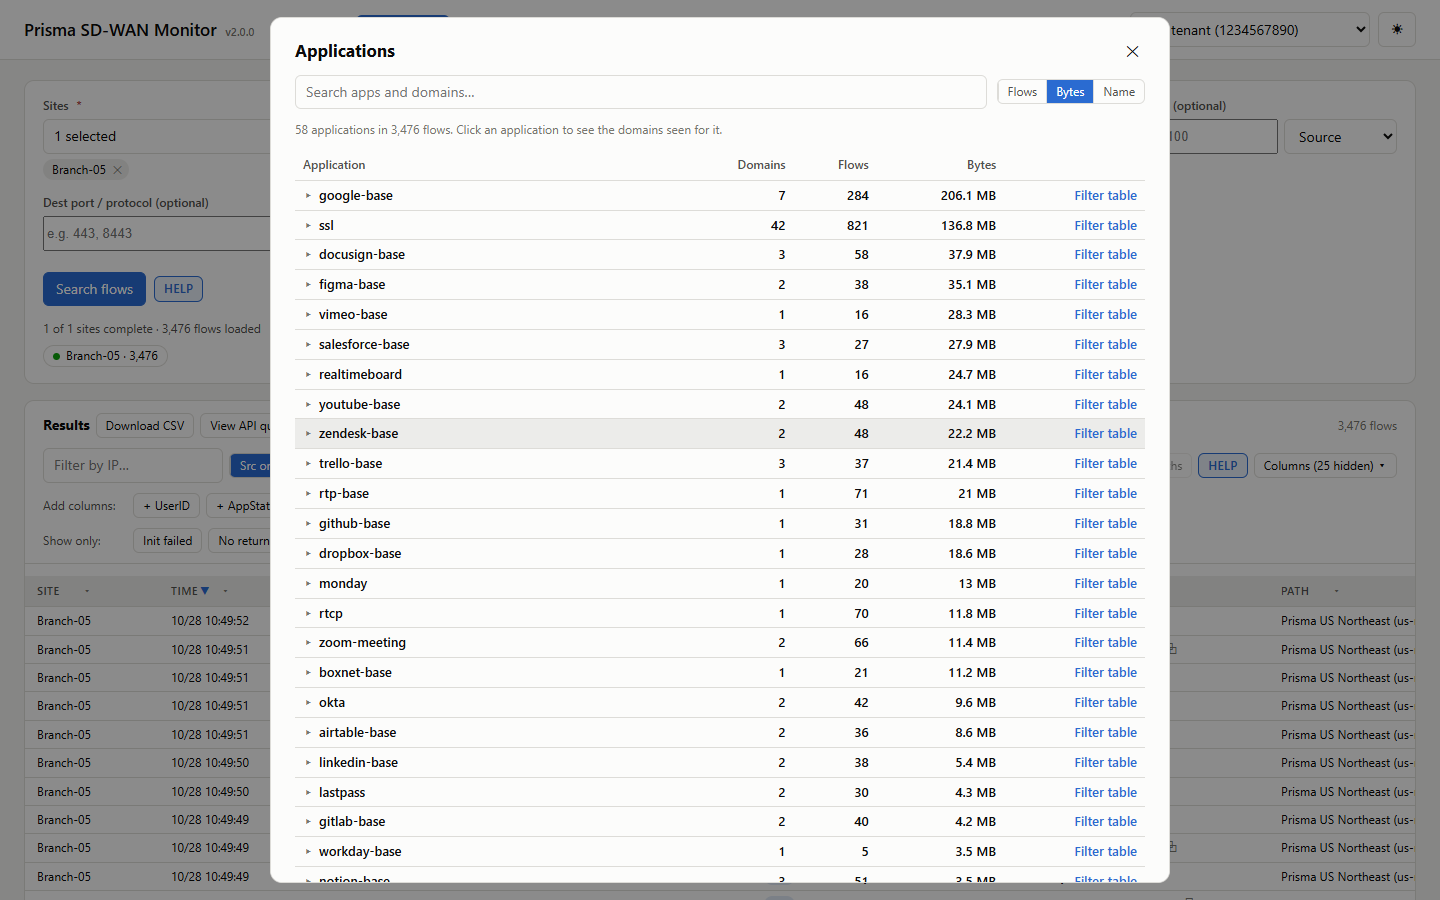
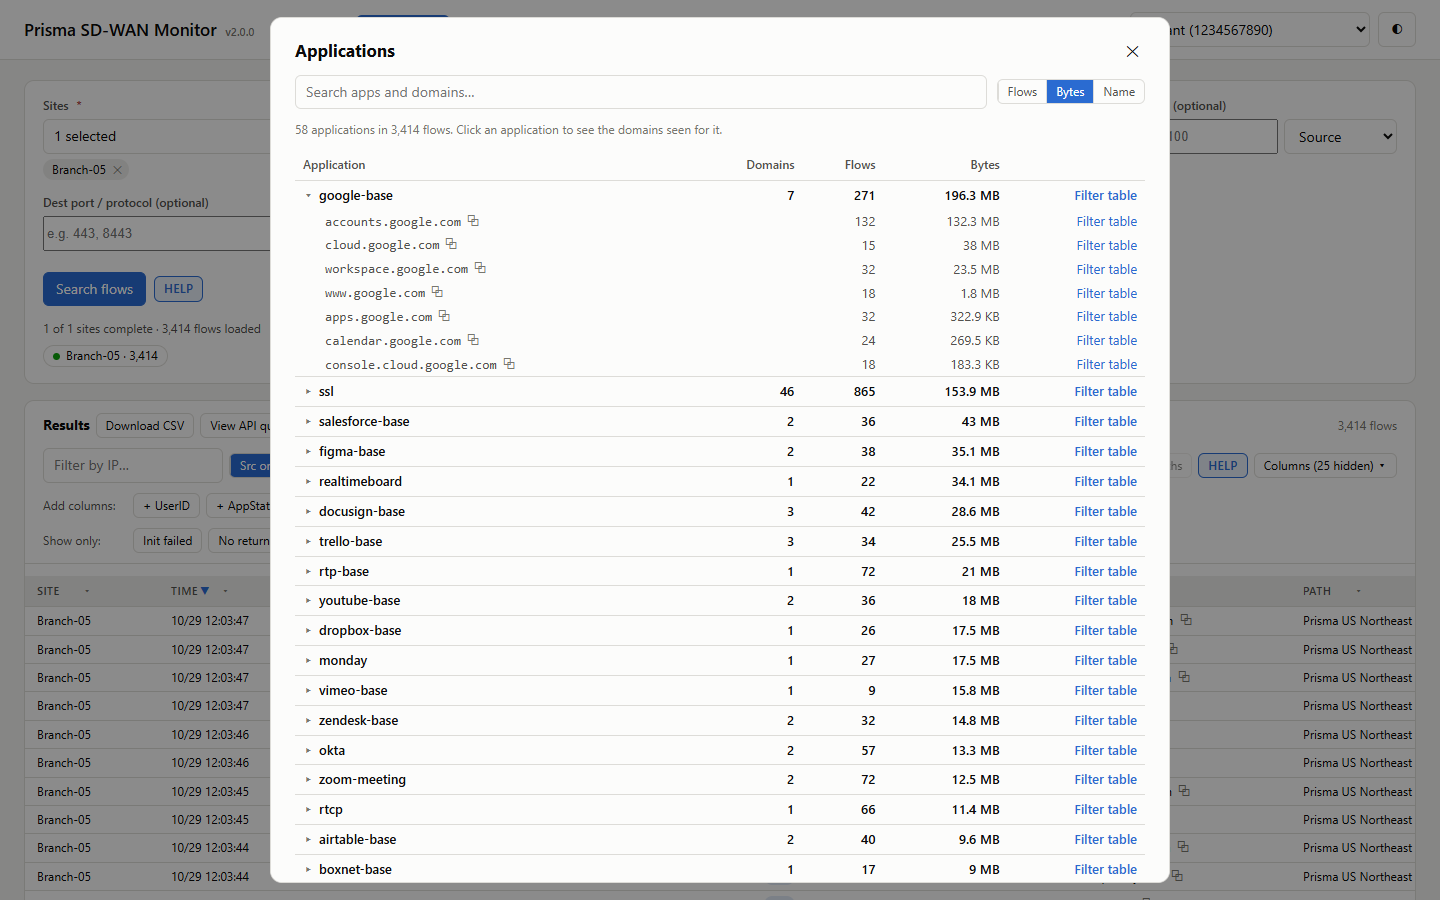
Document the Flow Search fields and show an expanded app in the Apps screenshot
List the search filters, the column search/filter and sorting, the columns by
their Add columns button, and how Path Change, Assurance, Action, End Reason,
Init OK, Return and Security are worked out.

diff --git a/README.md b/README.md
@@ -35,6 +35,67 @@ Not an official Palo Alto Networks product; provided as-is under the [MIT licenc
 
 ![Flow Search, Apps summary](docs/screenshots/flow-apps.png)
 
+## Flow Search fields
+
+**Search** (sent to the API, so fewer flows are fetched): sites, time range, IP address (source, destination or
+either), destination ports, protocol (TCP, UDP, ICMP) and applications. Searches over 4 hours need an application or IP
+address filter.
+
+**Results table:** every column can be searched and filtered: click its ▾, type in **Search values…** to find values,
+then pick the ones to show (**Select matches** picks everything the search found). Every column except Security sorts
+when you click its header. There is also a **Filter by IP** box (source, destination or either) and **Show only**
+buttons: *Init failed*, *No return traffic* and *Flow moved*.
+
+The columns, by their **Add columns** button:
+
+| Button | Columns |
+| --- | --- |
+| *(shown by default)* | Site, Time, Source IP, Src Port, Dest IP, Dst Port, Proto, App, Domain, Path, Init OK, Return, Security |
+| UserID | User |
+| AppStats | Avg RTT, Avg SRT, Avg UDP TRT |
+| Policy | Path Policy, QoS Policy, Security Policy |
+| Voice | Jitter, Loss, MOS |
+| TotalFlowStats | Total Bytes, Total Packets |
+| DirectionalFlowStats | Bytes C2S, Bytes S2C, Packets C2S, Packets S2C |
+| Retransmits | Retx Pkts, Retx %, Retx Bytes |
+| Path Change | Path Change, Assurance |
+| Duration | *(same name)* |
+| Action | *(same name)* |
+| End Reason | *(same name)* |
+| *(Columns menu only)* | Direction |
+
+- **Path Change:** why the flow moved to another WAN path mid-way, e.g. an SLA breach, the path going down, or
+  asymmetry (`asymmetry_path_change`, `probe_bad_path_change`). Blank: it stayed on one path. Underneath, *from …* is the
+  path it was on before, when the search goes back far enough; hover for every path with times.
+- **Assurance:** *Flow Move* when a performance policy rule with the *Move Flows* action put the flow on its path, e.g.
+  because another path broke the rule's SLA (same as SCM's *Assurance: Flow Move*). Underneath, *from …* is the path it
+  was kept off and why: *app RTT*, *app unreachable*, or a probe (e.g. *probe: high RTT*).
+- **Action:** what the ION did with the flow: forwarded, or `flow_drop`. Dropped flows show why underneath: a firewall
+  TCP state violation (the first packet seen wasn't a SYN), a security policy deny (with the rule), no security zone on
+  the source interface, no allowed path up, or no path allowed by the path policy. Hover for details.
+- **End Reason:** how the session ended: `tcp-fin` (normal close), `tcp-rst-from-client` / `tcp-rst-from-server`
+  (reset), `aged-out` (idle timeout). *n/a*: not reported (ION software before 6.8).
+- **Init OK:** the record's `init_success` field: whether the ION saw the TCP 3-way handshake complete. **Yes**: it
+  completed. **No**: it did not (no answer, a refusal, or a half-finished handshake). **-**: not reported, i.e. it
+  doesn't apply (UDP, ICMP).
+- **Return:** what came back from the server, worked out from the record's packet counts and TCP flags, checked in this
+  order:
+  1. **Dropped**: Action is `flow_drop` (the ION dropped the flow itself; Action says why).
+  2. **-**: no packets in either direction.
+  3. **No**: the client sent packets but the server sent none (forwarded, but nothing came back).
+  4. **Reset**: every server packet was a TCP reset (nothing listening on that port, or a host firewall rejected it).
+  5. **SYN-ACK only**: Init OK is No and every server packet was a SYN-ACK (the server accepted, but the client never
+     sent the final ACK, or its ACK took a path the ION didn't see).
+  6. **Yes**: anything else; the server sent data back.
+
+  Read together when Init OK is No: Return = **No** means nothing answered, so look at the network path (routing, a
+  firewall or policy drop, the host down). **Reset** or **SYN-ACK only** means the server is reachable but refused or
+  the handshake stalled, so look at the service or port.
+- **Security:** the security policy action(s) applied to the flow, e.g. `allow`, `deny`, `deny_unknown_source_zone`.
+  Taken from the actions of the security rules on the record (`security_policy_rules`), or, when there are none, from
+  `sec_policy_actions`; several different actions are listed comma-separated, and **-** means none were reported. The
+  rule name itself is in the Security Policy column.
+
 ## Start
 
 You need Python 3.10 or newer. Open a terminal in the Monitor's folder and run:
